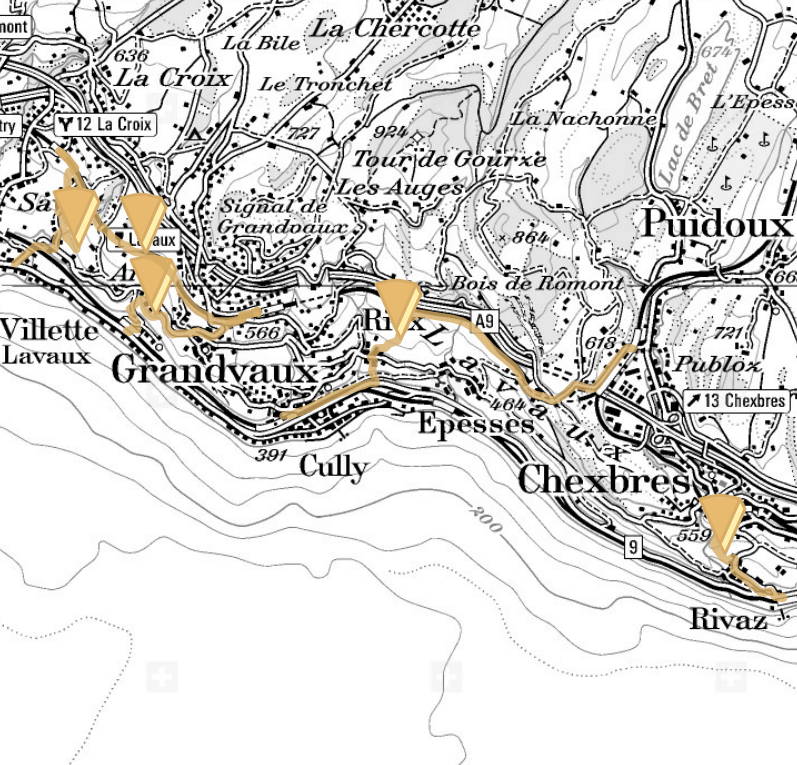
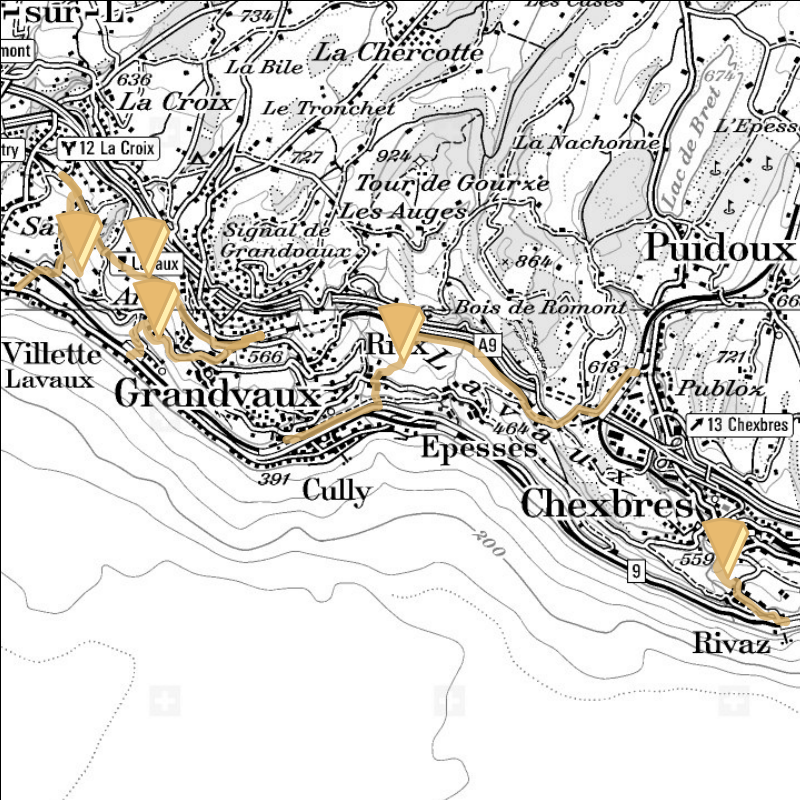
Improves global map details

diff --git a/static_map.js b/static_map.js
@@ -14,17 +14,6 @@ var map = new ga.Map({
 
 var vector = new ol.layer.Vector({
   source: new ol.source.Vector({
-    url: 'http://www.duvindufromageetdupain.ch/routes/aran.kml',
-    format : new ol.format.KML({
-      projection: 'EPSG:21781'
-    }),
-    extractStyles: true
-  }),
-});
-map.addLayer(vector);
-
-var vector = new ol.layer.Vector({
-  source: new ol.source.Vector({
     url: 'http://www.duvindufromageetdupain.ch/routes/capites.kml',
     format : new ol.format.KML({
       projection: 'EPSG:21781'
@@ -88,5 +77,16 @@ var vector = new ol.layer.Vector({
       width: 6
     })
   })
+});
+map.addLayer(vector);
+
+var vector = new ol.layer.Vector({
+  source: new ol.source.Vector({
+    url: 'http://www.duvindufromageetdupain.ch/routes/aran.kml',
+    format : new ol.format.KML({
+      projection: 'EPSG:21781'
+    }),
+    extractStyles: true
+  }),
 });
 map.addLayer(vector);

diff --git a/min/phantom-min.js b/min/phantom-min.js
@@ -1,1 +1,1 @@
-var page=require("webpage").create();page.open("http://localhost:5757/map.html",function(){window.setTimeout(function(){page.render("map.png"),phantom.exit()},2e3)});
+var page=require("webpage").create();page.open("http://localhost:5757/map.html",function(){page.clipRect={top:1,left:1,width:800,height:800},window.setTimeout(function(){page.render("map_preview.png"),phantom.exit()},2e3)});

diff --git a/map.html b/map.html
@@ -1,14 +1,21 @@
 <!DOCTYPE html>
 <html>
 <head>
-<meta charset="UTF-8">
-<link rel="stylesheet" href="main.css">
-<style>
-	.map {
-		height: 800px;
-		width: 800px;
+	<meta charset="UTF-8">
+	<link rel="stylesheet" href="main.css">
+	<style>
+	html,
+	body{
+		margin: 0;
+		padding: 0;
 	}
-</style>
+
+	.map {
+		height: 840px;
+		width: 802px;
+		margin:0;
+	}
+	</style>
 </head>
 
 <body>

diff --git a/phantom.js b/phantom.js
@@ -1,7 +1,9 @@
 var page = require('webpage').create();
 page.open('http://localhost:5757/map.html', function() {
+  page.clipRect = { top: 1, left: 1, width: 800, height: 800 };
+
   window.setTimeout(function () {
-    page.render('map.png');
+    page.render('map_preview.png');
     phantom.exit();
   }, 2000);
 });
